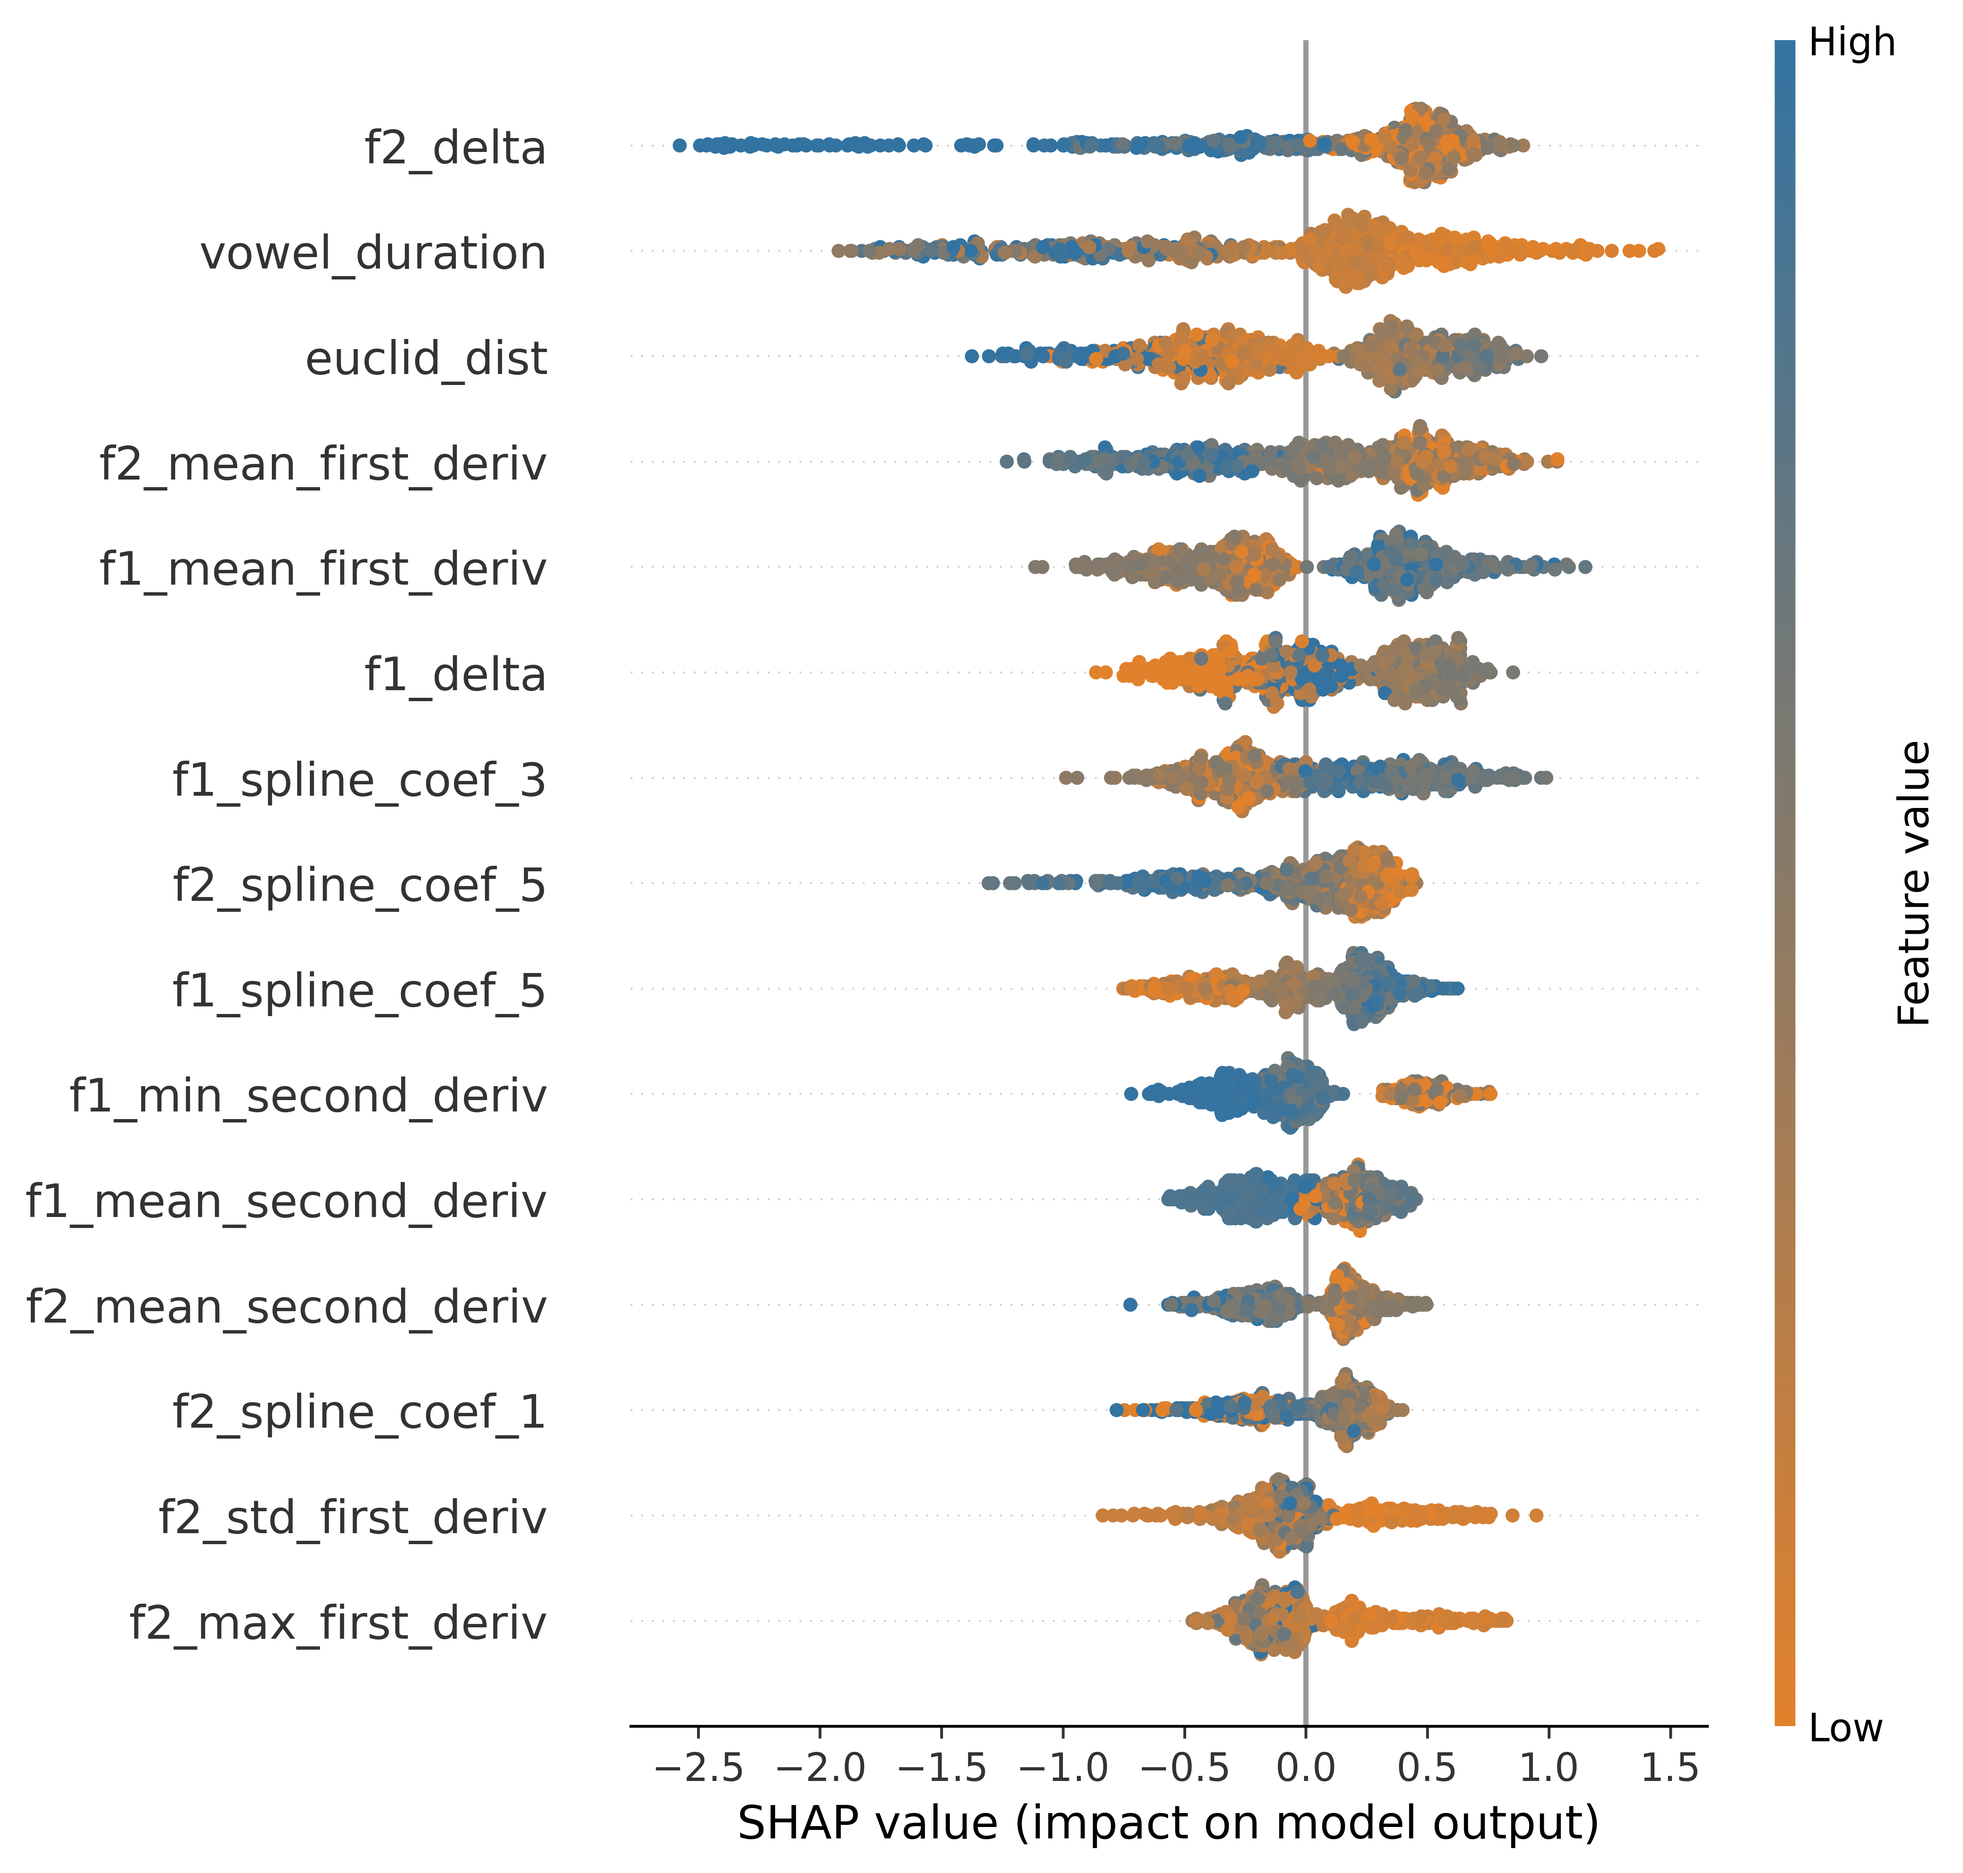
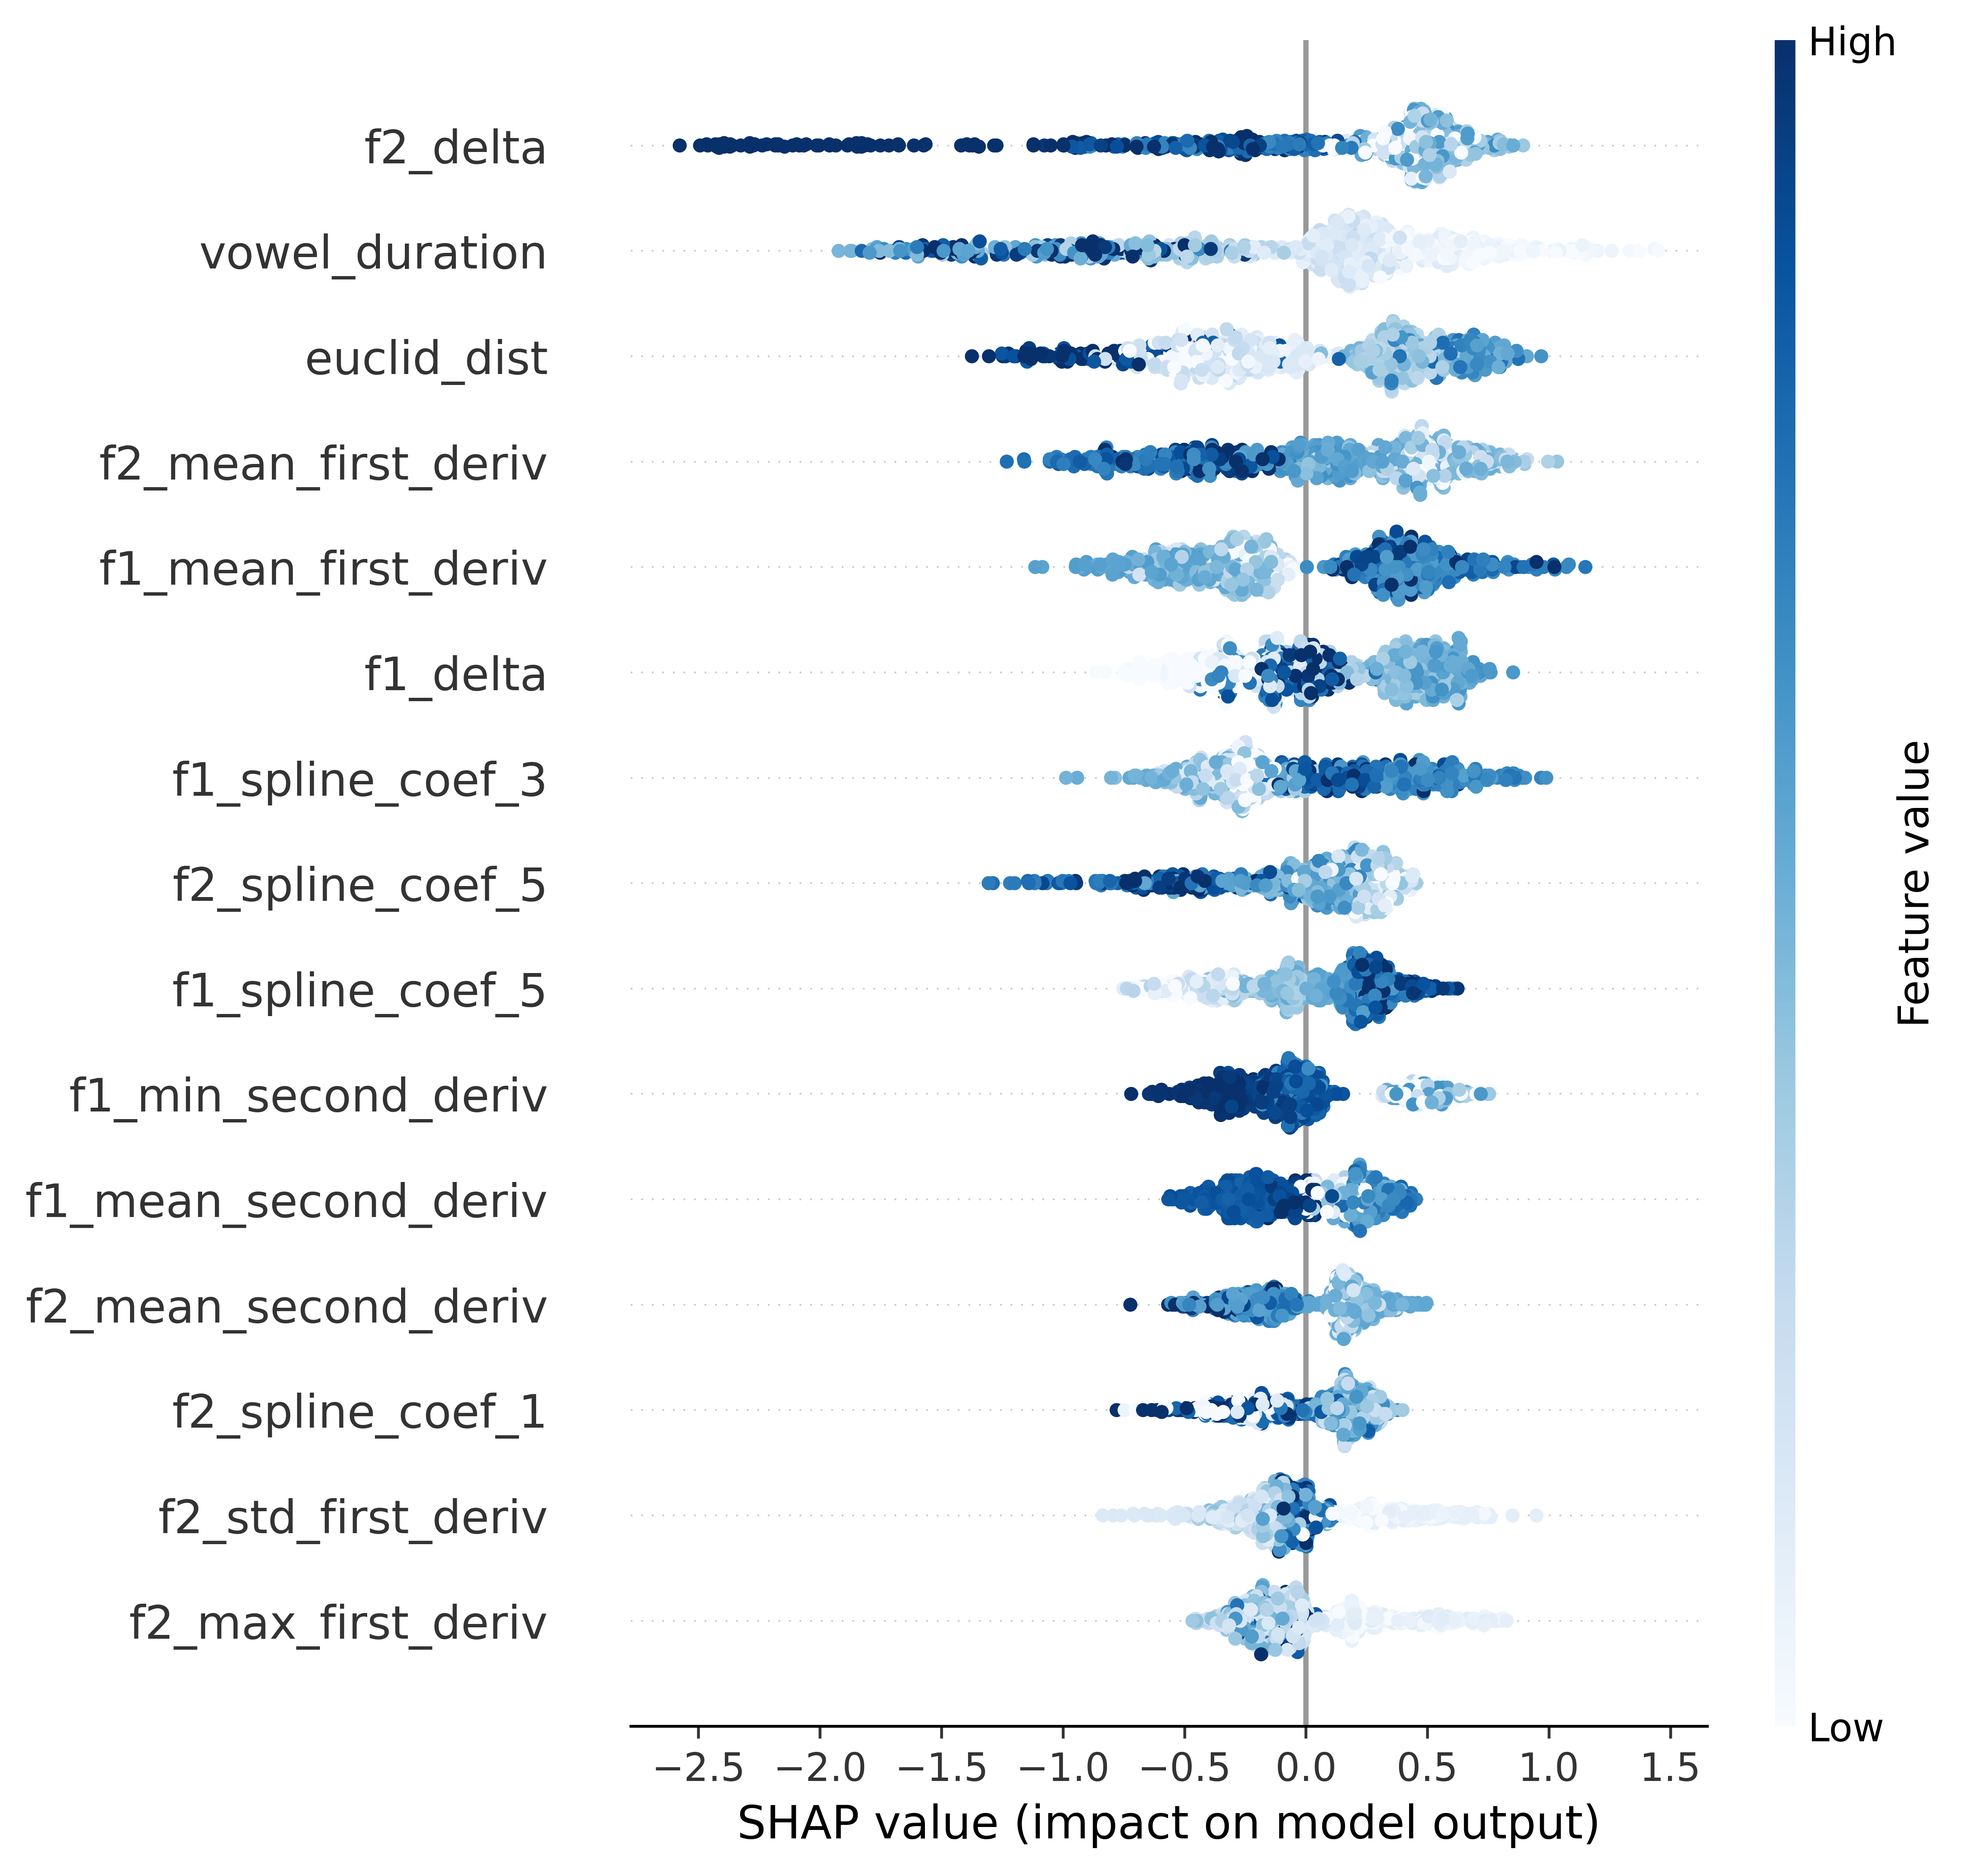
updating beeswarm plot

Changed region(s): [[0.343, 0.0311, 0.8419, 0.902], [0.9043, 0.0, 0.9355, 0.9331]]

diff --git a/src/models/predict_xgb.py b/src/models/predict_xgb.py
@@ -120,9 +120,7 @@ def shap_plot(model, X_train, train_vowel_ids):
     shap_values = explainer(X_train)
 
     # beeswarm plot with custom colormap
-    shap.summary_plot(
-        shap_values, X_train, max_display=15, show=False, cmap=custom_cmap
-    )
+    shap.summary_plot(shap_values, X_train, max_display=15, show=False, cmap="Blues")
     plt.savefig("../../figures/shap_summary_beeswarm.png", dpi=600, bbox_inches="tight")
     plt.close()
 
